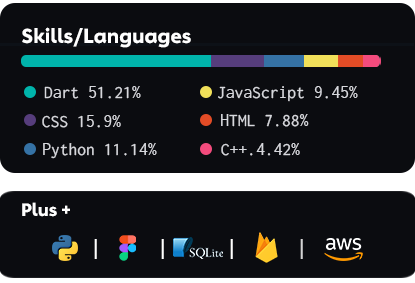
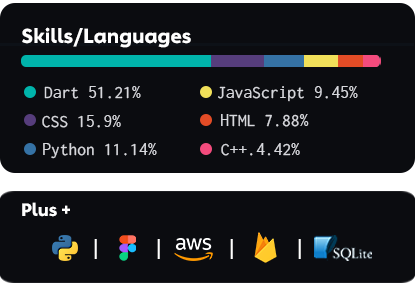
:arrow_up: Update `new`

diff --git a/README.md b/README.md
@@ -29,7 +29,7 @@
 <summary><b>𝚜𝚝𝚊𝚝𝚒𝚜𝚝𝚒𝚌𝚜</b> <a href="#"> <img width="15px" src="@bastndev/IMG/statistics2.png"></a></summary></br>
 
 <div>
-  <img align="left" width="34.9%" src="@bastndev/IMG/plus2.png"/>
+  <img align="left" width="34.9%" src="@bastndev/IMG/plus.png"/>
 
 <p align="right">
  <img  width="60%" src="https://streak-stats.demolab.com?user=bastndev&theme=dark-smoky&hide_border=true&border_radius=14">
@@ -41,11 +41,11 @@
 <img align="left" width="15%" src="https://img.shields.io/github/stars/bastndev?style=for-the-badge&logo=github&labelColor=1d2228&color=0d1117"/>
 
 <!-- Visit Counter -->
-<div>
+<!-- <div>
 <img align="right" width="4.2%" src="@bastndev/IMG/blok.png"/>
 <img align="right" width="2.1%" src="@bastndev/IMG/gem.webp"/>
-</div></br>
+</div></br> -->
 
-[<img align="right" width="15%" src="https://profile-counter.glitch.me/{bastndev}/count.svg"/>](#lucas)
+[<img align="left" width="15%" src="https://profile-counter.glitch.me/{bastndev}/count.svg"/>](#lucas)
 </details>
 
